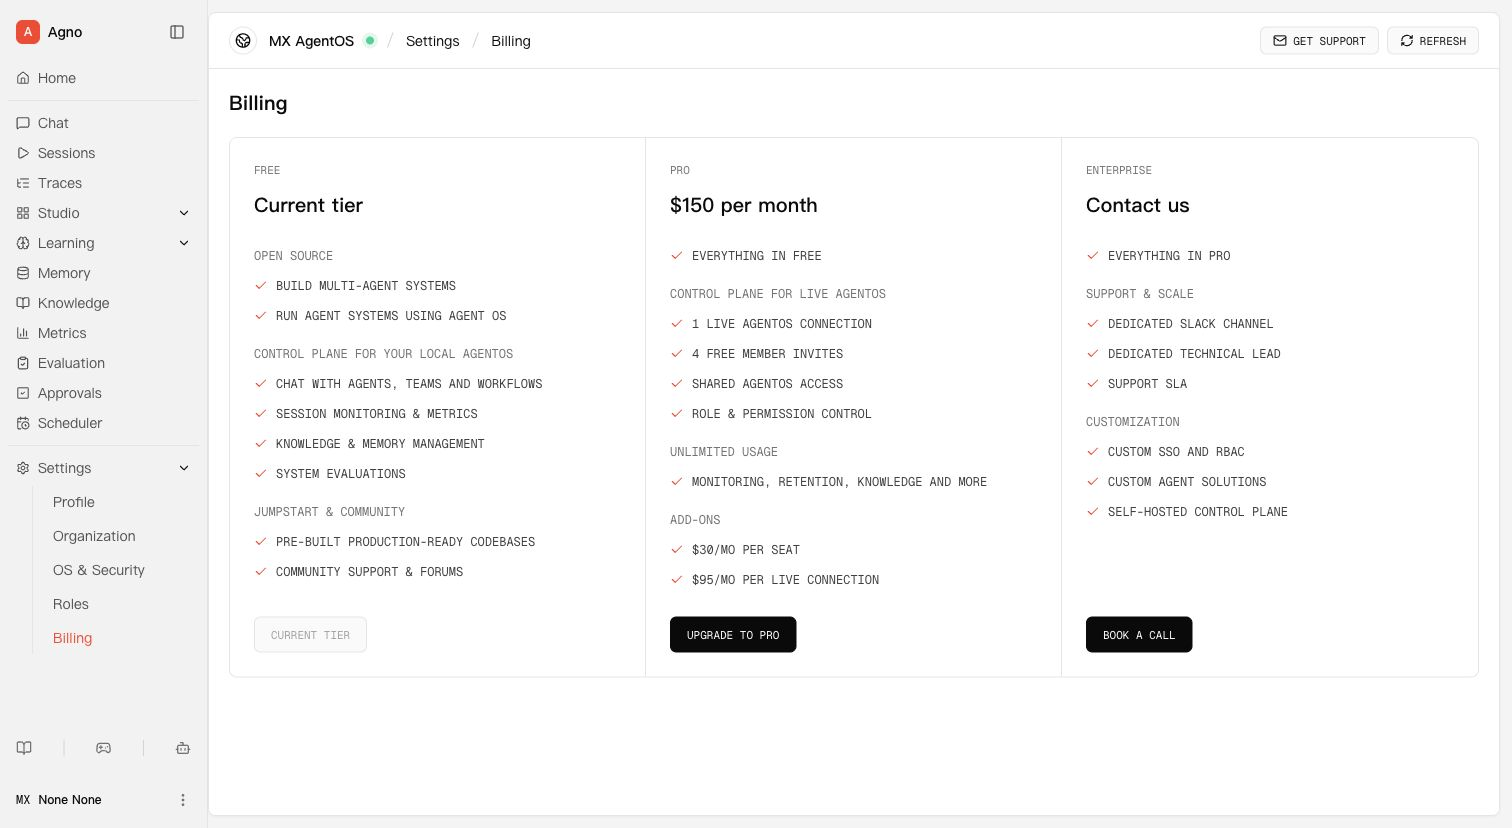
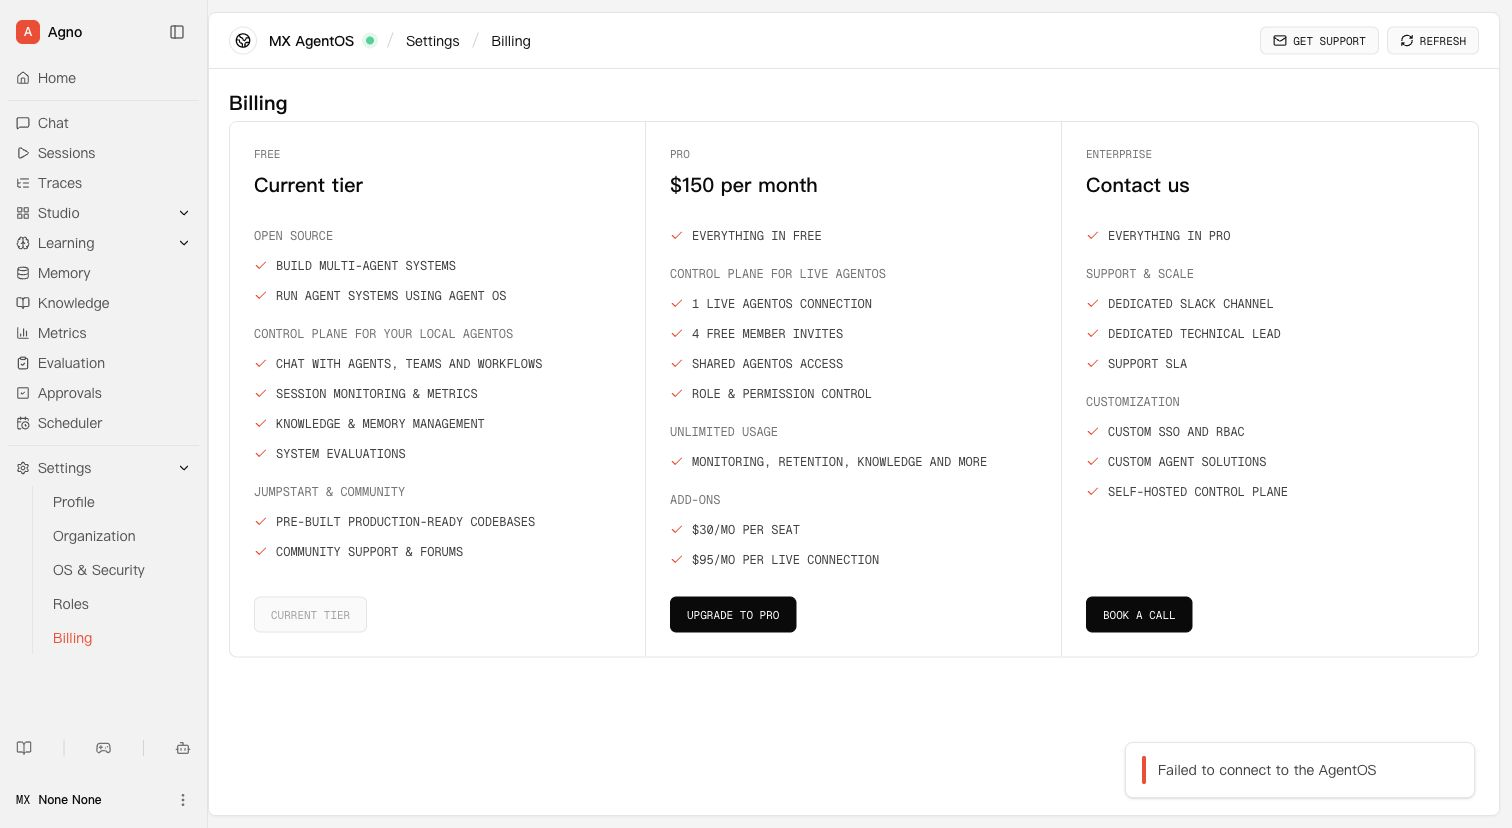
feat: align settings billing gate

diff --git a/frontend/src/components/agentos/settings-panel.tsx b/frontend/src/components/agentos/settings-panel.tsx
@@ -516,32 +516,38 @@ function RolesSettings() {
 
 function BillingSettings() {
   return (
-    <div className="grid max-w-7xl overflow-hidden rounded-lg border border-neutral-200 lg:grid-cols-3">
-      {billingColumns.map((column) => (
-        <section className="flex min-h-[530px] flex-col border-b border-neutral-200 p-6 last:border-b-0 lg:border-b-0 lg:border-r lg:last:border-r-0" key={column.kicker}>
-          <p className={labelClass}>{column.kicker}</p>
-          <h2 className="mt-3 text-xl font-medium">{column.price}</h2>
-          <div className="mt-7 flex-1 space-y-5">
-            {column.sections.map((section) => (
-              <div className="space-y-3" key={section.join("-")}>
-                {section.map((item, index) => (
-                  <p className={cn("flex items-center gap-2 font-mono text-[12px] uppercase text-neutral-700", index === 0 && section.length > 1 && "text-neutral-500")} key={item}>
-                    {index === 0 && section.length > 1 ? null : <Check className="size-3.5 text-[#ff3b25]" />}
-                    {item}
-                  </p>
-                ))}
-              </div>
-            ))}
-          </div>
-          <button
-            className={cn(buttonClass, "mt-7 w-fit", !column.disabled && "border-neutral-950 bg-neutral-950 text-white hover:bg-neutral-800")}
-            disabled={column.disabled}
-            type="button"
-          >
-            {column.action}
-          </button>
-        </section>
-      ))}
+    <div className="relative min-h-[697px]">
+      <div className="-mt-4 grid max-w-7xl overflow-hidden rounded-lg border border-neutral-200 lg:grid-cols-3">
+        {billingColumns.map((column) => (
+          <section className="flex min-h-[522px] flex-col border-b border-neutral-200 p-6 last:border-b-0 lg:border-b-0 lg:border-r lg:last:border-r-0" key={column.kicker}>
+            <p className={labelClass}>{column.kicker}</p>
+            <h2 className="mt-2 text-xl font-medium">{column.price}</h2>
+            <div className="mt-7 flex-1 space-y-5">
+              {column.sections.map((section) => (
+                <div className="space-y-3" key={section.join("-")}>
+                  {section.map((item, index) => (
+                    <p className={cn("flex items-center gap-2 font-mono text-[12px] uppercase text-neutral-700", index === 0 && section.length > 1 && "text-neutral-500")} key={item}>
+                      {index === 0 && section.length > 1 ? null : <Check className="size-3.5 text-[#ff3b25]" />}
+                      {item}
+                    </p>
+                  ))}
+                </div>
+              ))}
+            </div>
+            <button
+              className={cn(buttonClass, "mt-7 w-fit", !column.disabled && "border-neutral-950 bg-neutral-950 text-white hover:bg-neutral-800")}
+              disabled={column.disabled}
+              type="button"
+            >
+              {column.action}
+            </button>
+          </section>
+        ))}
+      </div>
+      <div className="absolute bottom-5 right-1 flex h-14 w-[350px] items-center gap-3 rounded-lg border border-neutral-200 bg-white px-4 text-sm text-neutral-700 shadow-sm">
+        <span className="h-7 w-1 rounded-full bg-[#ff3b25]" />
+        Failed to connect to the AgentOS
+      </div>
     </div>
   );
 }

diff --git a/docs/agno-analysis/phase-1-verification.md b/docs/agno-analysis/phase-1-verification.md
@@ -1259,3 +1259,23 @@ repeatable measurement path for subsequent page-by-page iterations.
 - Added `settings-profile` to the screenshot comparison matrix.
 - `pnpm visual:diff` now reports `21/21 passed`.
 - `settings-profile`: passed, different ratio `0.02799` against max `0.08`.
+
[phone redacted] Settings billing visual diff matrix expansion:
+
+- Rechecked `https://os.agno.com/try-demo` with Chrome/CDP at 1512 x 828. The
+  current Chrome session redirects to `https://os.agno.com/signin?callbackUrl=%2Ftry-demo`
+  and does not expose a usable public Demo OS surface, so the existing
+  authenticated Billing reference screenshot from the earlier successful
+  Settings pass remains the source of truth.
+- Aligned local `/settings/billing` with the captured Billing page by adding the
+  bottom-right `Failed to connect to the AgentOS` toast and tightening the
+  Billing pricing grid vertical placement.
+- Recaptured `docs/agno-analysis/local-screenshots/settings-billing.png` from
+  the standalone build.
+- Added `settings-billing` to the screenshot comparison matrix with
+  `maxDifferentRatio: 0.1` to allow account/workspace identity drift while still
+  covering the Billing page structure.
+- `pnpm lint`: passed.
+- `pnpm build`: passed.
+- `pnpm visual:diff` now reports `22/22 passed`.
+- `settings-billing`: passed, different ratio `0.092232` against max `0.1`.

diff --git a/docs/agno-analysis/visual-diffs/report.md b/docs/agno-analysis/visual-diffs/report.md
@@ -1,10 +1,10 @@
 # Visual Diff Report
 
-Generated: 2026-06-19T10:17:20.930Z
+Generated: 2026-06-19T12:27:59.989Z
 
 Config: `docs/agno-analysis/screenshot-comparison.config.json`
 
-Totals: 21/21 passed, 0 failed.
+Totals: 22/22 passed, 0 failed.
 
 | Status | Pair | Viewport | Reference | Local | Different ratio | Max ratio | Diff |
 | --- | --- | --- | --- | --- | --- | --- | --- |
@@ -28,4 +28,5 @@ pass | evaluation-detail | desktop | 1512x828 | 1512x828 | 0.107163 | 0.12 | doc
 pass | traces-sessions-table | desktop-compact | 1512x772 | 1512x772 | 0.058645 | 0.08 | docs/agno-analysis/visual-diffs/diffs/traces-sessions-table.diff.png
 pass | learning-user-memory-loading | desktop-compact | 1512x772 | 1512x772 | 0.025909 | 0.08 | docs/agno-analysis/visual-diffs/diffs/learning-user-memory-loading.diff.png
 pass | settings-profile | desktop | 1512x828 | 1512x828 | 0.02799 | 0.08 | docs/agno-analysis/visual-diffs/diffs/settings-profile.diff.png
+pass | settings-billing | desktop | 1512x828 | 1512x828 | 0.092232 | 0.1 | docs/agno-analysis/visual-diffs/diffs/settings-billing.diff.png
 pass | settings-os-shell | desktop | 1512x828 | 1512x828 | 0.065668 | 0.12 | docs/agno-analysis/visual-diffs/diffs/settings-os-shell.diff.png

diff --git a/docs/agno-analysis/page-inventory.md b/docs/agno-analysis/page-inventory.md
@@ -457,6 +457,9 @@ All screenshots were captured from the public Demo OS surface at a 1512 x 828 vi
     `CONTACT SALES`.
   - Billing shows three equal-height pricing columns: Free/current tier, Pro
     at `$150 per month`, and Enterprise/contact us.
+  - Billing is now covered by the desktop screenshot diff gate as
+    `settings-billing`; the threshold allows account/workspace identity drift
+    between the Agno reference account and MX local preview.
   - Settings page requests observed through CDP: `/auth/authenticate`,
     `/org/`, `/users/me`, `/users/me/organizations`, `/operating-systems/`,
     `/operating-systems/{id}/security-keys`, `/org/billing/`,